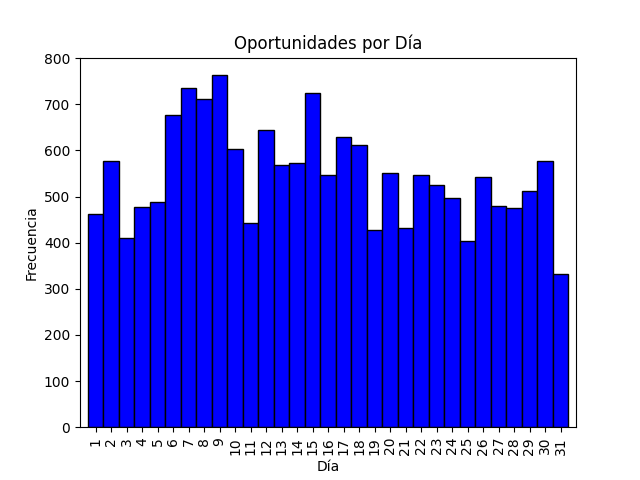
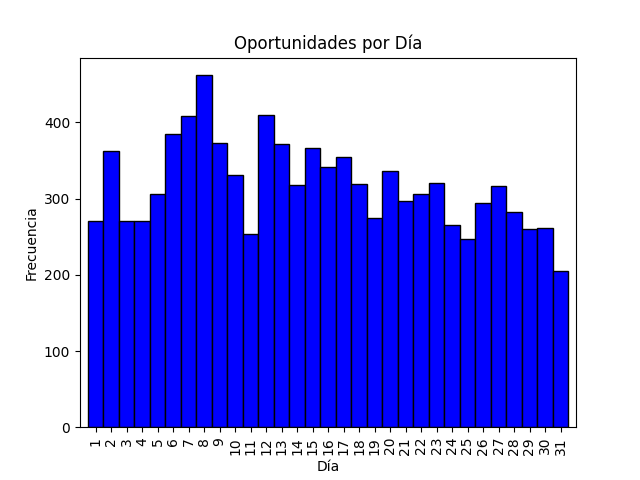
Corregi todos los graficos y archivos teniendo en cuenta las oportunidades repetidas

diff --git a/Tp1/BySanti/stage.py b/Tp1/BySanti/stage.py
@@ -1,0 +1,70 @@
+import pandas as pd
+import matplotlib.pyplot as plt
+import matplotlib.patches as mpatches
+import numpy as np
+import seaborn as sns
+
+import filter
+from print import *
+import graph_counter
+
+
+def stage(counter):
+    original = pd.read_csv("file.csv")
+    filter.full_correction(original)
+
+    set_output("stage_stats.txt")
+
+    stage_stats(original)
+    stage_graph(original, counter)
+
+    original = original.loc[original["Stage"] == "Closed Won", :]
+
+    reset_output()
+
+
+def stage_stats(df):
+    df = df.drop_duplicates(subset="Opportunity_ID")
+    print_title("Estadísticas de Stage")
+
+    print_subtitle("Cantidad de cada Valor")
+
+    print_series(df["Stage"].value_counts())
+    newline()
+
+    print_subtitle("Cantidad Relativa de cada Valor")
+    print_series(df["Stage"].value_counts(normalize=True))
+    newline()
+
+    print_subtitle("Porcentaje de Éxito")
+    df = df.loc[(df["Stage"] == "Closed Won") |
+                (df["Stage"] == "Closed Lost"), :]
+    print_series(df["Stage"].value_counts(normalize=True))
+
+
+def stage_graph(df, counter):
+    df = df.drop_duplicates(subset="Opportunity_ID")
+
+    df = df.loc[(df["Stage"] == "Closed Won") |
+                (df["Stage"] == "Closed Lost"), :]
+    plt.figure(counter.get_count())
+    plt.pie(df["Stage"].value_counts(normalize=True),
+            labels=df["Stage"].value_counts().index,
+            colors=["#99ff99", "#ff9999"],
+            autopct='%2.2f%%',
+            pctdistance=0.80,
+            startangle=30,
+            explode=[0.05, 0.05])
+
+    plt.title("Oportunidades Ganadas vs Perdidas")
+
+    centre_circle = plt.Circle((0, 0), 0.70, fc='white')
+    plt.gcf().gca().add_artist(centre_circle)
+
+    plt.savefig("graphics/stage.png")
+
+    return
+
+
+counter = graph_counter.Counter()
+stage(counter)

diff --git a/Tp1/BySanti/opportunity_id.py b/Tp1/BySanti/opportunity_id.py
@@ -1,0 +1,66 @@
+import pandas as pd
+import matplotlib.pyplot as plt
+import matplotlib.patches as mpatches
+import numpy as np
+import seaborn as sns
+
+import filter
+from print import *
+import graph_counter
+
+
+def opportunity_id(counter):
+    original = pd.read_csv("file.csv")
+    filter.full_correction(original)
+
+    set_output("opportunity_id.txt")
+
+    opportunity_id_stats(original)
+
+    reset_output()
+
+
+def opportunity_id_stats(df):
+    print_title("Estadística de los ID de las Oportunidades")
+
+    filas = len(df.index)
+    valores_unicos = len(df["Opportunity_ID"].unique())
+
+    print_subtitle("Cantidad de ID distintos")
+    printt(f"{valores_unicos}")
+    newline()
+
+    print_subtitle("Cantidad Promedio de Registros por ID")
+    printt(f"{filas / valores_unicos}")
+    newline()
+
+    print_subtitle("ID Mínimo")
+    min_id = df["Opportunity_ID"].min()
+    printt(f"{min_id}")
+    newline()
+
+    print_subtitle("ID Máximo")
+    max_id = df["Opportunity_ID"].max()
+    printt(f"{max_id}")
+    newline()
+
+    print_subtitle("Nombre Mínimo")
+    min_name = df["Opportunity_Name"].min()
+    printt(f"{min_name}")
+    newline()
+
+    print_subtitle("Nombre Máximo")
+    max_name = df["Opportunity_Name"].max()
+    printt(f"{max_name}")
+    newline()
+
+    print_subtitle("Cantidad Máxima de Registros Para Oportunidad")
+    df["Opportunity_Register_Count"] = df.groupby(
+        "Opportunity_ID")["ID"].transform("count")
+    max_reg = df["Opportunity_Register_Count"].max()
+    printt(f"{max_reg}")
+    newline()
+
+
+counter = graph_counter.Counter()
+opportunity_id(counter)

diff --git a/Tp1/BySanti/basic.py b/Tp1/BySanti/basic.py
@@ -12,12 +12,14 @@ filter.full_correction(original)
 filas = len(original.index)
 columnas = len(original.columns)
 
+
 def basic_analysis(df):
-    #basic_stats(df)
-    #null_stats(df)
-    #var_stats(df)
-    #value_counts_stats(df)
+    # basic_stats(df)
+    # null_stats(df)
+    # var_stats(df)
+    # value_counts_stats(df)
     return
+
 
 def basic_stats(df):
     set_output("basic_stats.txt")
@@ -30,20 +32,23 @@ def basic_stats(df):
 
     reset_output()
 
+
 def null_stats(df):
     set_output("null_stats.txt")
     print_title("Completitud del Set")
 
     for col in original:
         cant = original[col].isnull().value_counts().tolist()
-        if cant[0] == filas: continue
+        if cant[0] == filas:
+            continue
 
         nulos = cant[1]
-        porcentaje = cant[1] /filas
-        
+        porcentaje = cant[1] / filas
+
         printt(f"{col}: {pretty_f(porcentaje, 3)}% - {nulos}/{filas}")
 
     reset_output()
+
 
 def var_stats(df):
     set_output("var_stats.txt")
@@ -52,13 +57,15 @@ def var_stats(df):
     types = df.dtypes
 
     for col in df:
-        if types[col] not in {np.dtype('float64'), np.dtype('int64')}: continue
+        if types[col] not in {np.dtype('float64'), np.dtype('int64')}:
+            continue
 
         print_subtitle(col)
         print_series(df[col].describe())
         div()
 
     reset_output()
+
 
 def value_counts_stats(df):
     set_output("value_counts.txt")
@@ -70,5 +77,6 @@ def value_counts_stats(df):
         div()
 
     reset_output()
+
 
 basic_analysis(original)

diff --git a/Tp1/BySanti/opportunity_created.py b/Tp1/BySanti/opportunity_created.py
@@ -30,12 +30,11 @@ def opportunity_created(counter):
     original = pd.read_csv("file.csv")
     filter.full_correction(original)
 
-    # filas = len(original.index)
-    # columnas = len(original.columns)
+    original = original.drop_duplicates(subset="Opportunity_Name")
 
     set_up_stats(original)
 
-    set_output("opportunity_stats.txt")
+    set_output("opportunity_created_stats.txt")
     opportunity_stats(original)
 
     opportunity_year(original, counter)

diff --git a/Tp1/BySanti/product_type.py b/Tp1/BySanti/product_type.py
@@ -12,6 +12,7 @@ import graph_counter
 def product_type(counter):
     original = pd.read_csv("file.csv")
     filter.full_correction(original)
+    original = original.drop_duplicates(subset="Opportunity_Name")
 
     set_output("product_type_stats.txt")
     product_type_stats(original)

diff --git a/Tp1/BySanti/product_family.py b/Tp1/BySanti/product_family.py
@@ -13,6 +13,8 @@ def product_family(counter):
     original = pd.read_csv("file.csv")
     filter.full_correction(original)
 
+    #original = original.drop_duplicates(subset="Opportunity_Name")
+
     set_up_stats(original)
 
     set_output("product_family_stats.txt")
